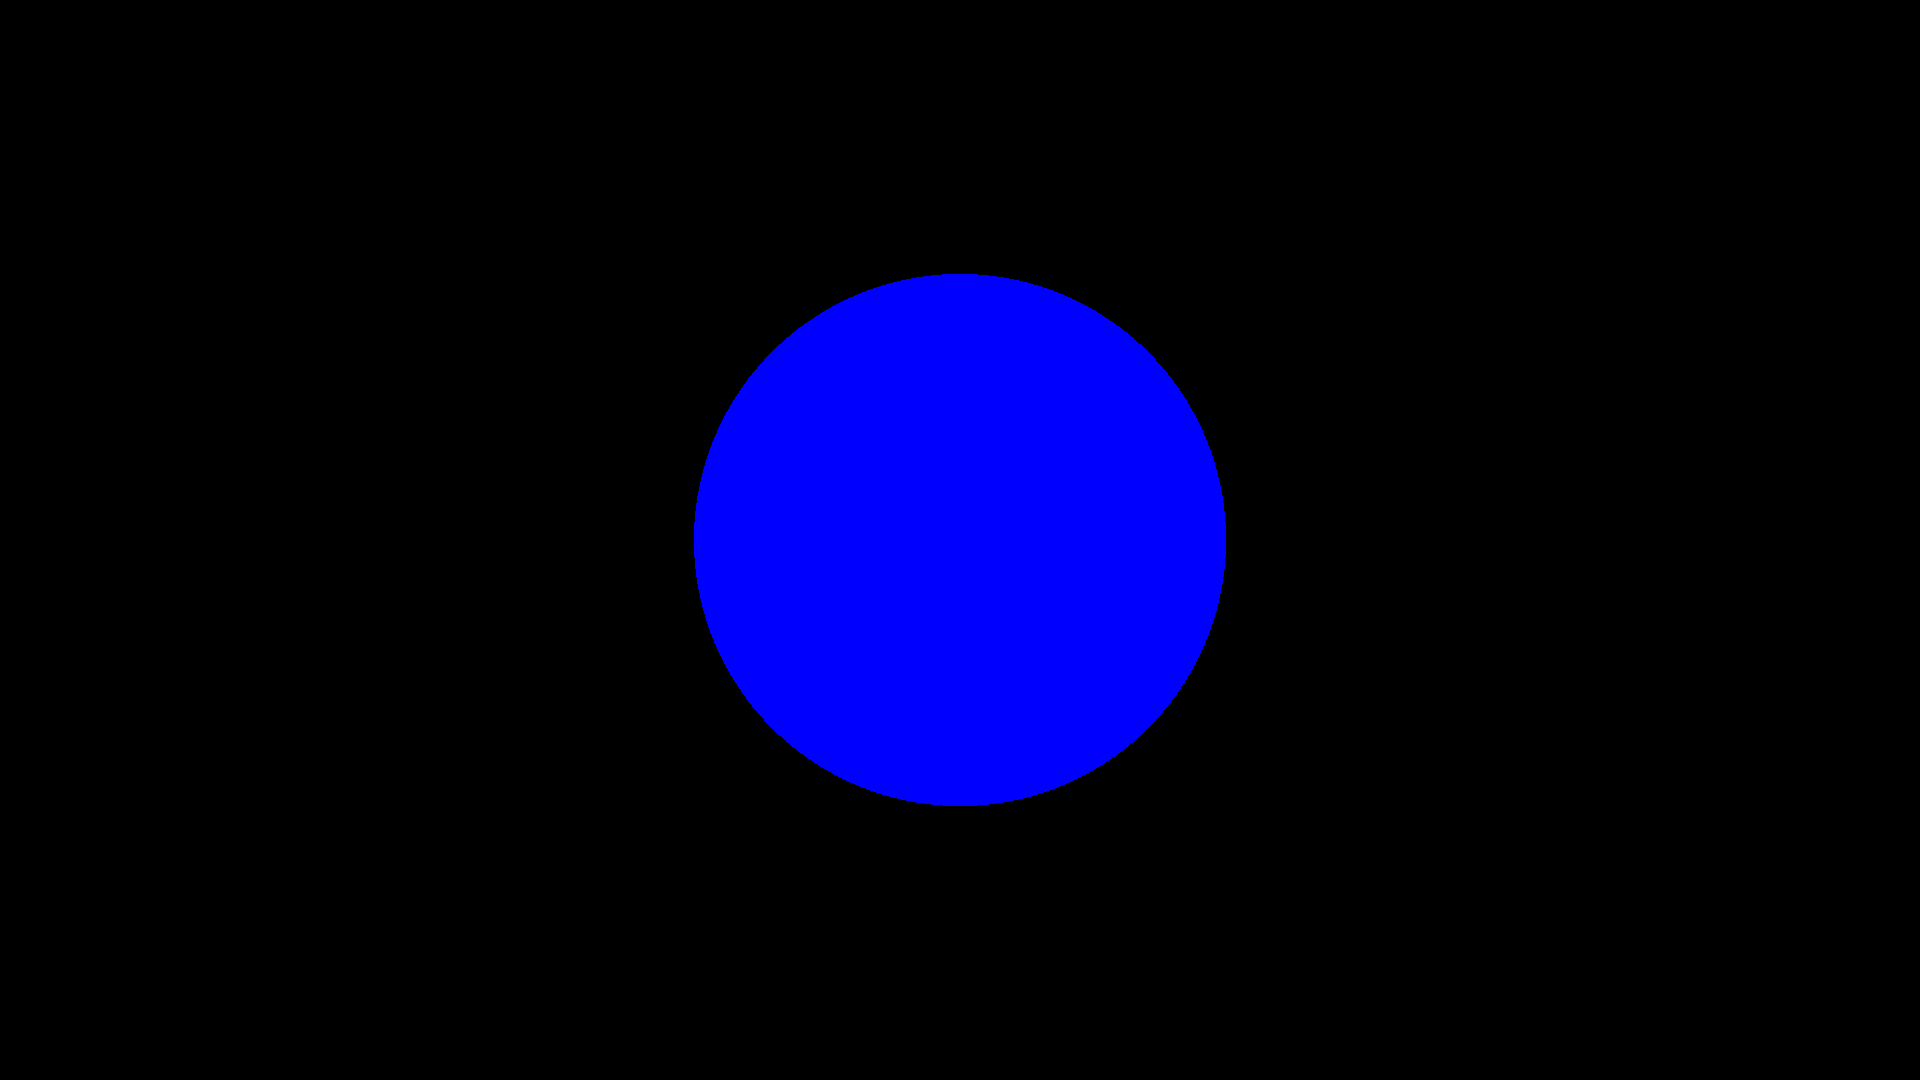
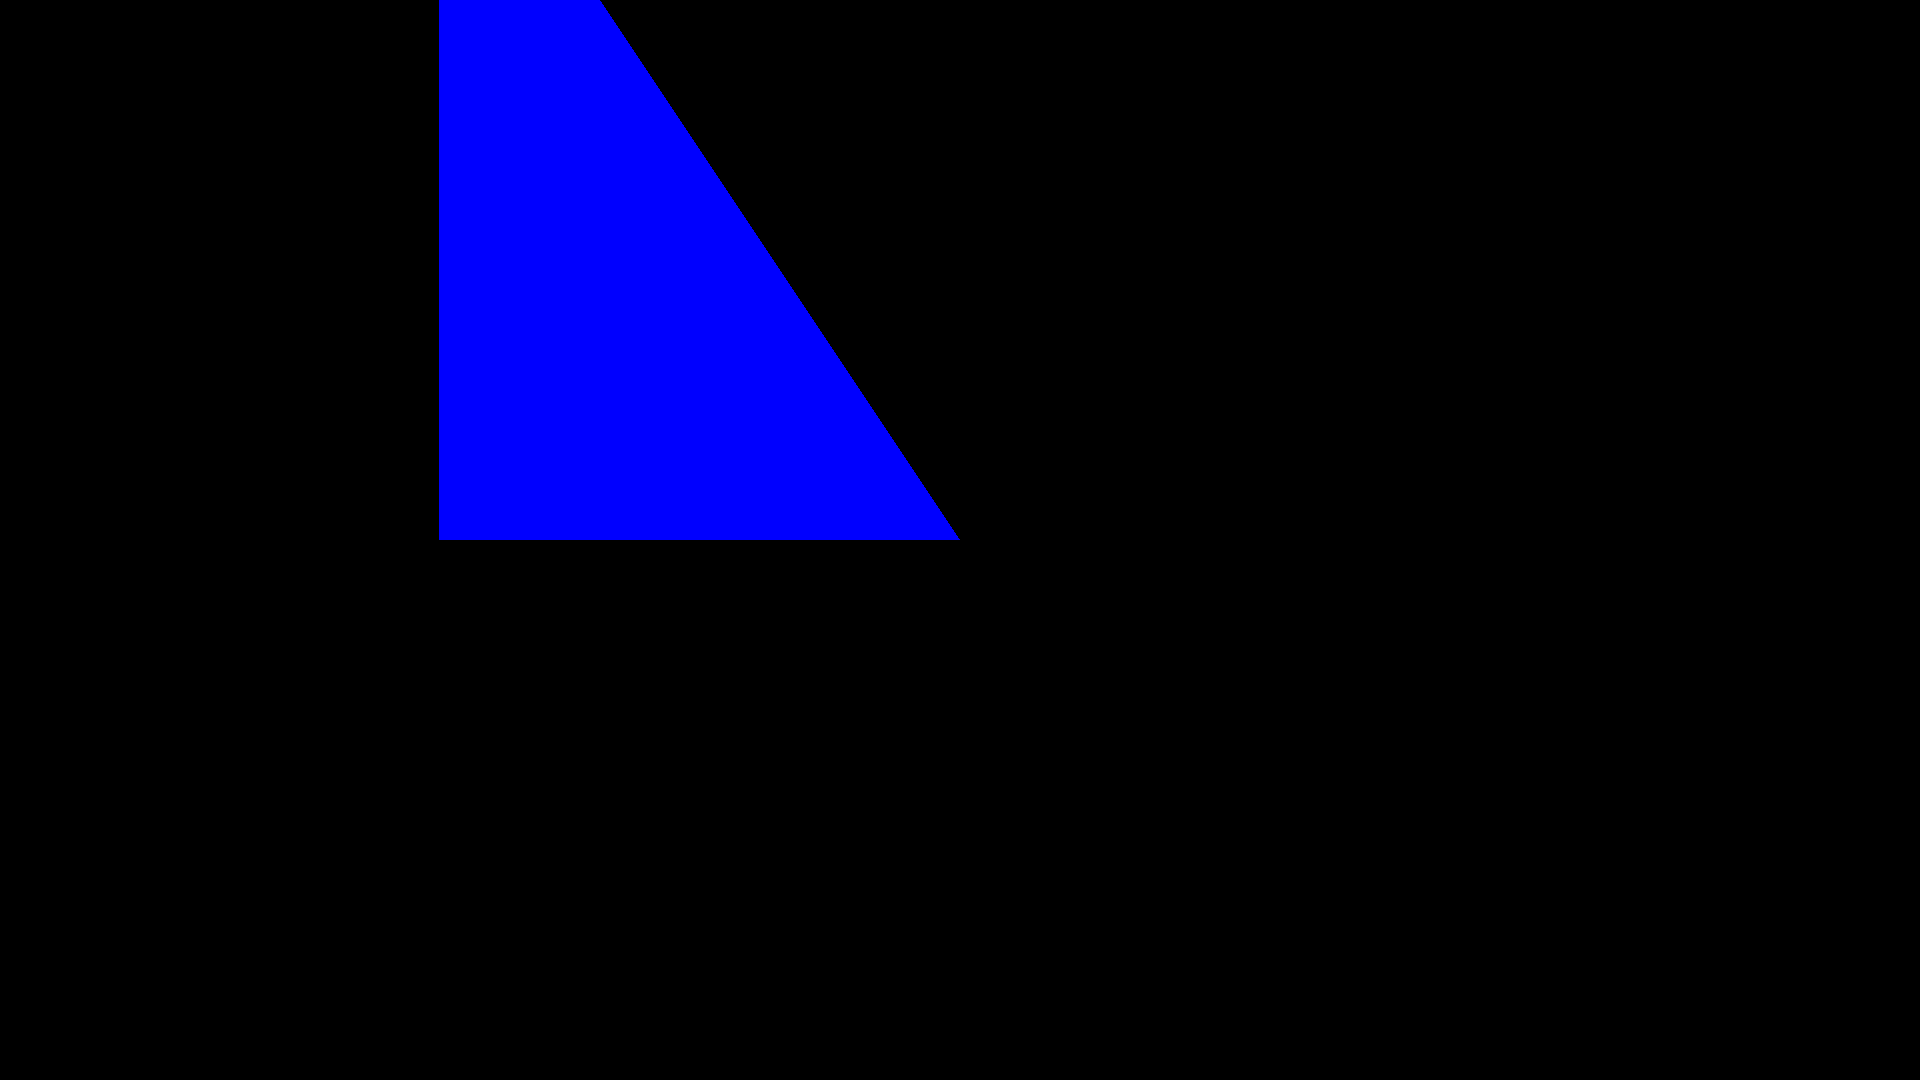
simple geometric ray-triangle intersection

Changed region(s): [[0.2188, 0.0, 0.6562, 0.7639]]

diff --git a/src/app.cpp b/src/app.cpp
@@ -206,9 +206,15 @@ namespace Ty
         f32 scale = tan(Math::to_rad((f32)DEFAULT_CAMERA_FOV * 0.5f));
         f32 aspect = (f32)GAME_RENDER_WIDTH / (f32) GAME_RENDER_HEIGHT;
         Math::m4f camera_to_world = Math::inverse(renderer.camera.get_view_matrix());
-        Math::Sphere sphere;
-        sphere.center = { 0, 2, -10.f };
-        sphere.radius = 2.f;
+        //Math::Sphere sphere;
+        //sphere.center = { 0, 2, -10.f };
+        //sphere.radius = 2.f;
+        Math::v3f triangle[3] =
+        {
+            -2.f, 2.f, -5.f,
+            0, 2.f, -5.f,
+            -2.f, 5.f, -5.f,
+        };
         for(i32 i = 0; i < GAME_RENDER_HEIGHT; i++)
         {
             for(i32 j = 0; j < GAME_RENDER_WIDTH; j++)
@@ -218,9 +224,11 @@ namespace Ty
                 Math::v3f dir = { x, y, -1 };
                 dir = camera_to_world * dir;
                 dir = Math::normalize(dir);
-                //// TEST: Collide rays with sphere, save output to buffer
+
+                // TEST: Collide rays with sphere, save output to buffer
                 Math::v3f intersect = {};
-                if(Math::raycast_sphere(renderer.camera.position, dir, sphere, &intersect))
+                //if(Math::raycast_sphere(renderer.camera.position, dir, sphere, &intersect))
+                if(Math::raycast_triangle(renderer.camera.position, dir, triangle[0], triangle[1], triangle[2], &intersect))
                 {
                     u32 pixel;
                     u8 r = 0, g = 0, b = 255, a = 255;
@@ -240,36 +248,9 @@ namespace Ty
                     pixel = (pixel & 0x00FFFFFF) | ((uint32_t)a << 24);
                     framebuffer[i * GAME_RENDER_WIDTH + j] = pixel;
                 }
-
-                //u32 pixel;
-                //f32 f_r = Math::lerp(0, 255, dir.x);
-                //f32 f_g = Math::lerp(0, 255, dir.y);
-                //f32 f_b = Math::lerp(0, 255, -dir.z);
-                //u8 r = (u8)f_r, g = (u8)f_g, b = (u8)f_b, a = 255;
-                //pixel = (pixel & 0xFFFFFF00) |  r;
-                //pixel = (pixel & 0xFFFF00FF) | ((uint32_t)g <<  8);
-                //pixel = (pixel & 0xFF00FFFF) | ((uint32_t)b << 16);
-                //pixel = (pixel & 0x00FFFFFF) | ((uint32_t)a << 24);
-                //framebuffer[i * GAME_RENDER_WIDTH + j] = pixel;
             }
         }
 
-
-        //      Save output color buffer to file
-//
-//        for(i32 i = 0; i < GAME_RENDER_HEIGHT; i++)
-//        {
-//            for(i32 j = 0; j < GAME_RENDER_WIDTH; j++)
-//            {
-//                u32 pixel;
-//                u8 r = 0, g = 0, b = 255, a = 255;
-//                pixel = (pixel & 0xFFFFFF00) |  r;
-//                pixel = (pixel & 0xFFFF00FF) | ((uint32_t)g <<  8);
-//                pixel = (pixel & 0xFF00FFFF) | ((uint32_t)b << 16);
-//                pixel = (pixel & 0x00FFFFFF) | ((uint32_t)a << 24);
-//                framebuffer[i * GAME_RENDER_WIDTH + j] = pixel;
-//            }
-//        }
         stbi_write_png(RESOURCES_PATH"out/raytrace_out.png", GAME_RENDER_WIDTH, GAME_RENDER_HEIGHT, 4, framebuffer, GAME_RENDER_WIDTH * 4);
 	}
 

diff --git a/include/core/math.h b/include/core/math.h
@@ -162,7 +162,7 @@ namespace Ty
 		// =============================
 		// Raycasting
 		// =============================
-		bool raycast_triangle(const v3f& ray_origin, const v3f& ray_dir, const v3f& tri_1, const v3f& tri_2, const v3f& tri_3, v3f* out = nullptr);
+        bool raycast_triangle(const v3f& ray_origin, const v3f& ray_dir, const v3f& v0, const v3f& v1, const v3f& v2, v3f* out);
 		bool raycast_sphere(const v3f& ray_origin, const v3f& ray_dir, const Sphere& sphere, v3f* out = nullptr);
 		bool raycast_box(const v3f& ray_origin, const v3f& ray_dir, const Box& box, v3f* out = nullptr);
 
